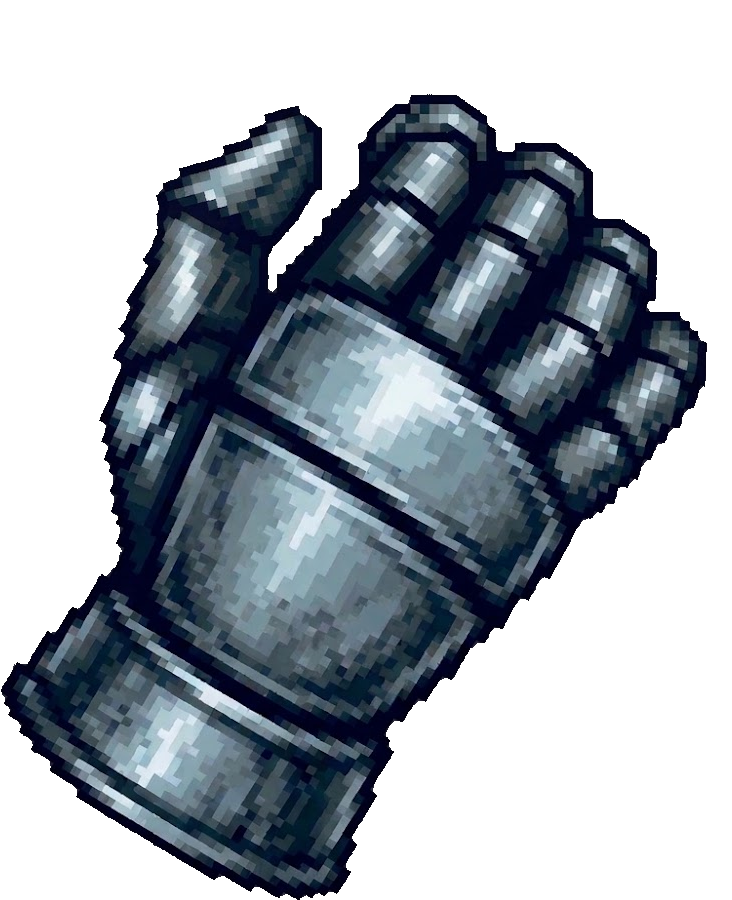
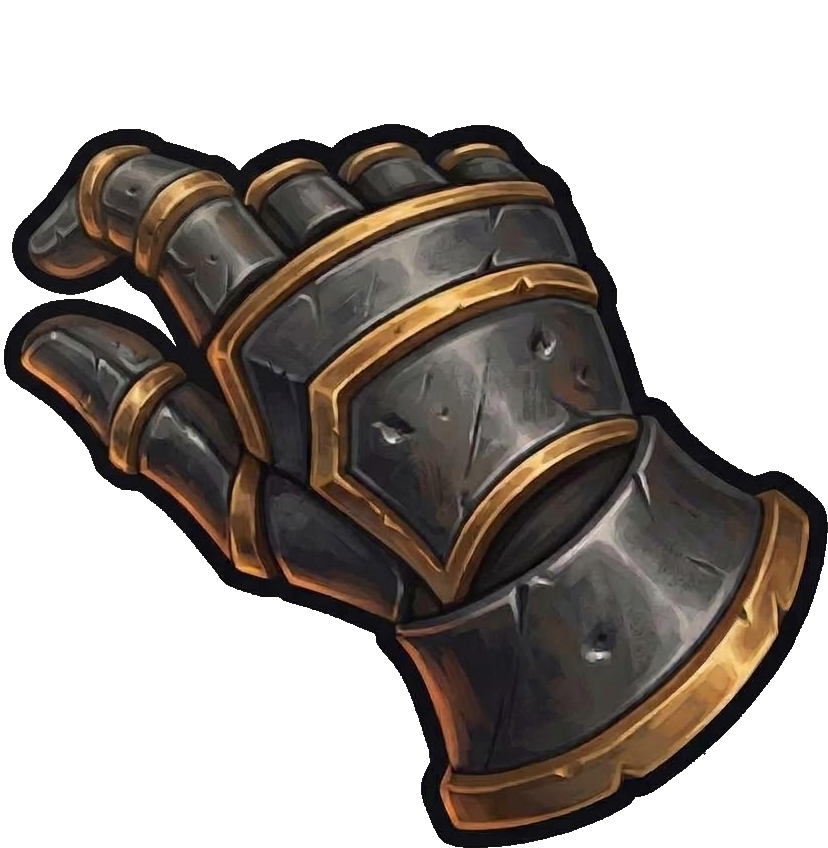
Replace the selection gauntlet with Tom's dark-iron, brass-trimmed gauntlet that points up-left: keyed from his three new JPEGs on a flat grey background (outline and brass kept, background removed cleanly), the keyed art is 828x848 so the hand canvas holds it at 242x248 texels, the three hotspots a
build-art.ts asked for stockStorage(), which Wisp's install lookup retired, so it now asks reforgedStorage(); the selection-assets family is rebuilt, stored and re-pinned. Tom made the art with Gemini for this game and approved it for public shipping (2026-11-01).

Test-kind: In Team Battle a hand is lettered in the colour of its card's team, and in the slot colour when teams are off [k1 scenario] 1 kills hand-colour-ignores-team
Test-kind: A carried chip hangs left of the pinch point with its right rim between the thumb and index tips, level with it, and narrower than the gauntlet [k2 property] 1 kills chip-hangs-on-pinch-point

diff --git a/ts/src/game/ui/selectionHandFrames.ts b/ts/src/game/ui/selectionHandFrames.ts
@@ -6,12 +6,14 @@ import { SELECT_LEVELS } from "./selectLevels";
 import { art } from "./selectionFrames";
 import { consoleUi, gameUi, placeTopLeft } from "./frames";
 import type { DrawnHand } from "./selectionHands";
-import { destroyFrame, Frame, setFrameLevel, setFrameVisible } from "wisp/game/frames";
+import { destroyFrame, Frame, frameColor, setFrameColor, setFrameLevel, setFrameVisible } from "wisp/game/frames";
+import { imod, idiv } from "wisp/src/sim/intMath";
 import { formatInt } from "wisp/game/text";
 
 interface HandLayer {
   readonly states: Readonly<Record<HandState, Frame>>;
   readonly badge: Frame;
+  badgeColour: number | undefined;
 }
 
 // Engine: Warcraft squeezes a game-UI child whose frame crosses the edge of the 4:3 area, but draws a ConsoleUIBackdrop child under every game-UI child; so the hand is drawn in the game UI, over the roster, until it crosses an edge, and then in the console layer, at full size, running off the edge like an OS cursor.
@@ -20,9 +22,9 @@ export interface HandFrames {
   readonly edge: HandLayer;
 }
 
-// The player label is the chip's own "P1" lettering, drawn without the disc, at the same texel scale as the chip's text: its 128x96 canvas is half the chip's width and 3/8 of its height, centred on this texel of the hand's 256 canvas (Melee's spot, a little left of the glove's middle and past halfway down).
-const LABEL_CENTRE_X = 95;
-const LABEL_CENTRE_Y = 148;
+// The player label is the chip's own "P1" lettering, drawn without the disc, at the same texel scale as the chip's text: its 128x96 canvas is half the chip's width and 3/8 of its height, centred on this texel of the hand's 256 canvas (the middle of the back-of-hand plate, which every state draws in the same place).
+const LABEL_CENTRE_X = 135;
+const LABEL_CENTRE_Y = 119;
 const LABEL_CHIP_WIDTH = f32(0.5);
 const LABEL_CHIP_HEIGHT = f32(0.375);
 
@@ -52,7 +54,7 @@ function createLayer(parent: Frame, grid: RosterGrid, tag: string, suffix: strin
   const badge = art(parent, `MeleeHandBadge${tag}${suffix}_${formatInt(slot)}`, `war3mapImported\\SelectionHandLabelP${formatInt(slot + 1)}.tga`, 0.0, 0.0, width, height);
   setFrameLevel(badge, SELECT_LEVELS.handBadge);
   setFrameVisible(badge, false);
-  return { states: { point: state("point"), fan: state("fan"), pinch: state("pinch") }, badge };
+  return { states: { point: state("point"), fan: state("fan"), pinch: state("pinch") }, badge, badgeColour: undefined };
 }
 
 export function createHandFrames(grid: RosterGrid, suffix: string, slot: number): HandFrames {
@@ -63,6 +65,10 @@ function presentLayer(layer: HandLayer, hand: DrawnHand | undefined, left: numbe
   for (const state of HAND_STATES) setFrameVisible(layer.states[state], hand?.pose.state === state);
   setFrameVisible(layer.badge, hand !== undefined);
   if (hand === undefined) return;
+  if (layer.badgeColour !== hand.colour) {
+    layer.badgeColour = hand.colour;
+    setFrameColor(layer.badge, frameColor(255, imod(idiv(hand.colour, 65536), 256), imod(idiv(hand.colour, 256), 256), imod(hand.colour, 256)));
+  }
   placeTopLeft(layer.states[hand.pose.state], left, top);
   const badge = handBadgeBox(left, top, size);
   placeTopLeft(layer.badge, badge.left, badge.top);

diff --git a/ts/src/game/menu/selectionDrag.tests.ts b/ts/src/game/menu/selectionDrag.tests.ts
@@ -1,8 +1,11 @@
 import { assertEquals, assertFalse, assertTrue, test } from "wisp/src/runtime/testing";
 import { f32 } from "wisp/src/sim/f32";
 import { HAND_ART_COLUMNS, HAND_ART_ROWS, HAND_TEXELS } from "../core/handArt";
-import { bullseyeLeft, bullseyeSize, bullseyeTop, GAME_MENU_WAKE_UPDATES, gameMenuWake, carriedChipLeft, carriedChipSize, carriedChipTop, HAND_STATES, handLeft, handSize, handTop, menuCursor } from "./selectionDrag";
+import { bullseyeLeft, bullseyeSize, bullseyeTop, GAME_MENU_WAKE_UPDATES, gameMenuWake, carriedChipLeft, carriedChipSize, carriedChipTop, CARRIED_CHIP_OFFSET, HAND_STATES, handLeft, handSize, handTop, menuCursor } from "./selectionDrag";
 import { rosterGrid } from "./selectionGrid";
+
+// The chip texture's disc is 232 of its 256 texels.
+const DISC_RADIUS = f32(0.453);
 
 test("The cursor is the pointing hand over a control, the open hand over a tile and resting in a menu panel, the pointing hand resting on the select screen, the pinch with a chip, and the stock cursor shows only where no hand is drawn [k2 property]", () => {
   for (const allowed of [false, true]) {
@@ -97,7 +100,7 @@ test("The gauntlet is drawn at 0.67 to 0.77 of a roster tile's height at every g
     const width = size * HAND_ART_COLUMNS / HAND_TEXELS;
     assertTrue(height >= f32(0.67) * grid.cellHeight && height <= f32(0.77) * grid.cellHeight);
     assertTrue(Math.abs(width / height - HAND_ART_COLUMNS / HAND_ART_ROWS) < f32(1e-6));
-    assertTrue(Math.abs(HAND_ART_COLUMNS / HAND_ART_ROWS - 732 / 900) < f32(0.002));
+    assertTrue(Math.abs(HAND_ART_COLUMNS / HAND_ART_ROWS - 828 / 848) < f32(0.002));
   }
 });
 
@@ -113,16 +116,17 @@ test("Every hand state keeps its hotspot inside the hand frame and moves the fra
   }
 });
 
-test("A carried chip is centred over the pinch point with its lower rim below it, and narrower than the gauntlet [k2 property]", () => {
+test("A carried chip hangs left of the pinch point with its right rim between the thumb and index tips, level with it, and narrower than the gauntlet [k2 property]", () => {
   for (let count = 1; count <= 60; count++) {
     const grid = rosterGrid(count);
     const size = handSize(grid);
     const chip = carriedChipSize(grid);
     const x = f32(0.4);
     const y = f32(0.3);
-    assertTrue(Math.abs(carriedChipLeft(x, chip) + chip / 2 - x) < f32(0.00001));
+    assertTrue(Math.abs(carriedChipLeft(x, chip) + chip / 2 - (x + chip * CARRIED_CHIP_OFFSET.x)) < f32(0.00001));
+    assertTrue(carriedChipLeft(x, chip) + chip * (f32(0.5) + DISC_RADIUS) > x);
+    assertTrue(carriedChipLeft(x, chip) + chip * (f32(0.5) - DISC_RADIUS) < x);
     assertTrue(Math.abs(carriedChipTop(y, chip) - chip / 2 - y) < chip * f32(0.15));
-    assertTrue(carriedChipTop(y, chip) - chip < y);
     assertTrue(chip < size * HAND_ART_COLUMNS / HAND_TEXELS);
   }
 });

diff --git a/ts/src/game/menu/selectionDrag.ts b/ts/src/game/menu/selectionDrag.ts
@@ -164,11 +164,11 @@ export const HAND_TILE_HEIGHT = f32(0.72);
 // SelectionHand textures are drawn square, sized so the gauntlet rows span HAND_TILE_HEIGHT of a tile.
 export const handSize = (grid: RosterGrid): number => f32(f32(grid.cellHeight) * HAND_TILE_HEIGHT * HAND_TEXELS / HAND_ART_ROWS);
 
-// The texel that sits exactly on the mouse: the index fingertip, the middle fingertip, and the middle of the gap between thumb and index tips.
+// The texel that sits exactly on the mouse: the index fingertip of the up-left pointing hand, the fan's leading (longest) fingertip, and the middle of the gap between the pinch's thumb and index tips.
 const HAND_HOTSPOT: Readonly<Record<HandState, { readonly x: number; readonly y: number }>> = {
-  point: { x: 155.5, y: 6 },
-  fan: { x: 171.75, y: 26 },
-  pinch: { x: 103, y: 38 },
+  point: { x: 10.5, y: 18.5 },
+  fan: { x: 57, y: 7 },
+  pinch: { x: 16, y: 88 },
 };
 
 export const handLeft = (x: number, state: HandState, size: number): number => x - f32(HAND_HOTSPOT[state].x / HAND_TEXELS) * size;
@@ -212,12 +212,12 @@ export const CARRIED_CHIP_HAND_SHARE = f32(0.71);
 
 export const carriedChipSize = (grid: RosterGrid): number => f32(handSize(grid) * CARRIED_CHIP_HAND_SHARE);
 
-// A carried chip sits just below the pinch point, drawn under the hand so the thumb and fingers cover its upper part.
-export const CARRIED_CHIP_LIFT = f32(-0.12);
+// The pinch opens to the left, so a carried chip hangs to the left of the pinch point with its right rim between thumb and index tips, drawn under the hand so the tips cover that rim; the offset is in chip sizes.
+export const CARRIED_CHIP_OFFSET = { x: f32(-0.4), y: f32(0.0) };
 
-export const carriedChipLeft = (x: number, size: number): number => x - size * f32(0.5);
+export const carriedChipLeft = (x: number, size: number): number => x - size * f32(f32(0.5) - CARRIED_CHIP_OFFSET.x);
 
-export const carriedChipTop = (y: number, size: number): number => y + size * f32(f32(0.5) + CARRIED_CHIP_LIFT);
+export const carriedChipTop = (y: number, size: number): number => y + size * f32(f32(0.5) + CARRIED_CHIP_OFFSET.y);
 
 // A chip not yet on a fighter parks centred on this point of its player card.
 export const parkedChipCentre = (slot: number): { readonly x: number; readonly y: number } => ({ x: cardRight(slot, f32(0.126)), y: cardDown(f32(0.105)) });

diff --git a/tools/selection/gameCursorArt.ts b/tools/selection/gameCursorArt.ts
@@ -10,7 +10,7 @@ export const CURSOR_TEXTURE = 'GameCursor';
 
 // Warcraft's cursor model samples the pointer cells so the click point sits 8 px right of and 1 px below a cell's corner.
 const POINTER_HOTSPOT = { x: 8, y: 1 };
-const POINTER_ART = { width: 24, height: 31, tipFromLeft: 5 };
+const POINTER_ART = { width: 24, height: 24, tipFromLeft: 1, tipFromTop: 1 };
 
 const POINTER_CELLS = [
   ...Array.from({ length: CURSOR_COLUMNS }, (_, column) => [column, 0] as const),
@@ -33,8 +33,8 @@ export const gameCursorArt = (source: string, output: string, run: Run) => Effec
   const target = join(output, 'GameCursorTarget.png');
   const invalid = join(output, 'GameCursorInvalid.png');
   const arrow = join(output, 'GameCursorArrow.png');
-  const offset = `${POINTER_HOTSPOT.x - POINTER_ART.tipFromLeft}x${POINTER_HOTSPOT.y}`;
-  yield* run(['magick', join(source, 'wc3-hand-point.png'), '-filter', 'point', '-resize', `${POINTER_ART.width}x${POINTER_ART.height}!`, '-flop', '-background', 'none', '-gravity', 'northwest', '-splice', offset, '-extent', cell, pointer]);
+  const offset = `${POINTER_HOTSPOT.x - POINTER_ART.tipFromLeft}x${POINTER_HOTSPOT.y - POINTER_ART.tipFromTop}`;
+  yield* run(['magick', join(source, 'wc3-hand-point.png'), '-trim', '+repage', '-filter', 'Lanczos', '-resize', `${POINTER_ART.width}x${POINTER_ART.height}!`, '-background', 'none', '-gravity', 'northwest', '-splice', offset, '-extent', cell, pointer]);
   yield* run(['magick', '-background', 'none', join(source, 'SelectionBullseye.svg'), '-resize', '30x30', '-gravity', 'center', '-extent', cell, reticle]);
   yield* run(['magick', reticle, '-fill', '#19e6ff', '-colorize', '70', target]);
   yield* run(['magick', reticle, '-fill', '#ff2a2a', '-colorize', '75', '-stroke', '#ff2a2a', '-strokewidth', '3', '-draw', 'line 8,24 24,8', invalid]);

diff --git a/ts/src/game/ui/selectionUi.ts b/ts/src/game/ui/selectionUi.ts
@@ -1,5 +1,4 @@
 import { SELECT_LEVELS } from "./selectLevels";
-import { slotColor } from "./slotColors";
 import { nextCpuCharacter, nextMatchCharacter, shownFighter } from "../lobby/lobbyState";
 import { RULE_BUTTONS, rulePanel } from "./ruleButtons";
 import { RULE_HELP_HEIGHT, RULE_HELP_WIDTH, hoveredRule, ruleHelp } from "./ruleHelp";
@@ -47,7 +46,7 @@ import {
 } from "../menu/selectionDrag";
 import { cellRect, rosterGrid } from "../menu/selectionGrid";
 import { type HandFrames, createHandFrames, destroyHandFrames, presentHand } from "./selectionHandFrames";
-import { type HandPose, HIDDEN_HAND, SelectionHands } from "./selectionHands";
+import { type HandPose, HIDDEN_HAND, SelectionHands, handColour } from "./selectionHands";
 import { MENU_FONT, MENU_STYLE, PANEL_TEXTURE, type TextBox } from "./hudLayout";
 import { MOVES_BODY_BOX, MOVES_BUTTON_HEIGHT, MOVES_BUTTON_TOP, MOVES_HEADER_TOP, MOVES_TITLE_BOX, selectionTitleBox } from "./selectionLayout";
 import { PLAYABLE_CHARACTERS, nextSelectableCharacter, DEFAULT_FIGHTER } from "../roster/kits";
@@ -586,7 +585,7 @@ export class SelectionPanel {
     for (const slot of PARTICIPANT_SLOTS) {
       const frames = this.hands[slot];
       const remote = drawn.find(candidate => candidate.slot === slot);
-      const local = slot === this.participantId && localHand.state !== undefined ? { slot, pose: { ...localHand, state: localHand.state }, colour: slotColor(slot).rgb } : undefined;
+      const local = slot === this.participantId && localHand.state !== undefined ? { slot, pose: { ...localHand, state: localHand.state }, colour: handColour(game, slot) } : undefined;
       presentHand(frames, slot === this.participantId ? local : choosing ? remote : undefined, this.roster.grid);
     }
   }

diff --git a/ts/src/game/ui/selectionHands.tests.ts b/ts/src/game/ui/selectionHands.tests.ts
@@ -6,6 +6,7 @@ import { createMatchState, setHumanMask } from "../lobby/lobbyState";
 import type { HandState } from "../menu/selectionDrag";
 import { HAND_SEND_INTERVAL, HAND_UPDATES_PER_SECOND, type HandPose, HIDDEN_HAND, SelectionHands } from "./selectionHands";
 import { slotColor } from "./slotColors";
+import type { Team } from "../sim/teams";
 
 const POSITION_STEP = f32(0.0011);
 const STATES: readonly HandState[] = ["point", "fan", "pinch"];
@@ -87,4 +88,15 @@ test("A remote hand glides from where it was drawn to each new synced position w
   assertEquals(hand(later)?.state, "pinch");
   const chips = remote?.carriedChips(game, later);
   for (const slot of PARTICIPANT_SLOTS) assertEquals(chips?.[slot] !== undefined, slot === 1);
+});
+
+test("In Team Battle a hand is lettered in the colour of its card's team, and in the slot colour when teams are off [k1 scenario]", () => {
+  const { game, clients, step } = lobby(4);
+  step(100.0, [pose("point", f32(0.2), f32(0.2)), pose("fan", f32(0.3), f32(0.3)), pose("point", f32(0.4), f32(0.4)), pose("fan", f32(0.5), f32(0.5))]);
+  const settled = 100.0 + 2 * HAND_SEND_INTERVAL;
+  const colours = () => (clients[0]?.drawn(game, pose("point", f32(0.2), f32(0.2)), settled) ?? []).map(hand => hand.colour);
+  assertEquals(colours().join(","), BADGE_COLOURS.join(","));
+  game.teamBattle = true;
+  [1, 1, 3, 0].forEach((team, slot) => { game.teamChoices[slot] = team as Team; });
+  assertEquals(colours().join(","), [0x0042ff, 0x0042ff, 0x540081, 0xff0303].join(","));
 });

diff --git a/ts/src/game/ui/selectionHands.ts b/ts/src/game/ui/selectionHands.ts
@@ -4,6 +4,7 @@ import { ALPHABET } from "../input/wire";
 import { type MatchState, humanPresent } from "../lobby/lobbyState";
 import { HAND_STATES, type HandState } from "../menu/selectionDrag";
 import { PARTICIPANT_SLOTS, type Slots } from "../input/participants";
+import { cardPalette } from "./selectionCards";
 import { slotColor } from "./slotColors";
 
 export interface HandPose {
@@ -18,6 +19,9 @@ export interface DrawnHand {
   readonly pose: HandPose & { readonly state: HandState };
   readonly colour: number;
 }
+
+// A hand is lettered with its slot (P1 to P4) in the colour its player card shows: the team colour in Team Battle, the slot colour otherwise.
+export const handColour = (game: Readonly<MatchState> | undefined, slot: number): number => slotColor(game === undefined ? slot : cardPalette(game, slot)).rgb;
 
 export const HIDDEN_HAND: HandPose = { state: undefined, chip: undefined, x: 0.0, y: 0.0 };
 
@@ -100,7 +104,7 @@ export class SelectionHands {
       const glide = this.glides[slot];
       const pose = slot === this.localSlot ? local : glide === undefined ? HIDDEN_HAND : glideAt(glide, now);
       if (pose.state === undefined || !humanPresent(game, slot)) continue;
-      hands.push({ slot, pose: { ...pose, state: pose.state }, colour: slotColor(slot).rgb });
+      hands.push({ slot, pose: { ...pose, state: pose.state }, colour: handColour(game, slot) });
     }
     return hands;
   }

diff --git a/tools/selection/build-art.ts b/tools/selection/build-art.ts
@@ -66,7 +66,7 @@ BunRuntime.runMain(Effect.gen(function*() {
   const slots = PLAYER_COLORS.slice(0, PARTICIPANT_CAPACITY);
   for (const [slot, color] of slots.entries()) {
     yield* render(`SelectionChipP${slot + 1}`, 'SelectionChip.svg', { CHIP_COLOR: hex(mix(color.rgb, 0x000000, 0.2)), CHIP_LABEL: `P${slot + 1}` }, true);
-    yield* render(`SelectionHandLabelP${slot + 1}`, 'SelectionHandLabel.svg', { LABEL_COLOR: hex(color.rgb), LABEL_TEXT: `P${slot + 1}` }, true);
+    yield* render(`SelectionHandLabelP${slot + 1}`, 'SelectionHandLabel.svg', { LABEL_COLOR: '#ffffff', LABEL_TEXT: `P${slot + 1}` }, true);
     yield* render(`SelectionChipCPUP${slot + 1}`, 'SelectionChip.svg', { CHIP_COLOR: '#626977', CHIP_LABEL: `P${slot + 1}` }, true);
     yield* render(`SelectionCard${color.name}`, 'SelectionCard.svg', { CARD_COLOR: hex(mix(color.rgb, 0x000000, 0.4)), CARD_EDGE: hex(mix(color.rgb, 0xffffff, 0.35)), CARD_METAL: '#bbc6cf' }, false);
     yield* render(`MarkerArrow${slot}`, 'MarkerArrow.svg', { ARROW_COLOR: hex(color.rgb) }, false);

diff --git a/ts/src/game/core/handArt.ts b/ts/src/game/core/handArt.ts
@@ -1,5 +1,5 @@
-// Each SelectionHand texture is one 256x256 canvas (tools/selection/build-art.ts): the gauntlet is 202x248 texels at (4, 4).
+// Each SelectionHand texture is one 256x256 canvas (tools/selection/build-art.ts): the gauntlet is 242x248 texels at (4, 4).
 export const HAND_TEXELS = 256;
-export const HAND_ART_COLUMNS = 202;
+export const HAND_ART_COLUMNS = 242;
 export const HAND_ART_ROWS = 248;
 export const HAND_MARGIN = 4;

diff --git a/docs/design/fighter-portraits.md b/docs/design/fighter-portraits.md
@@ -261,7 +261,7 @@ playing with them, 2026-10-30). The authored chip's 237-pixel rim spans a
 55–70% reference band by that request. The pointer target follows that frame size; the P1/P2 labels keep their art.
 
 The fighter select and stage menus replace the stock Warcraft cursor (the Human
-gauntlet) with Tom's steel gauntlet in three states: the default pointing hand
+gauntlet) with Tom's dark-iron, brass-trimmed gauntlet (remade 2026-11-01; it points up-left, as Warcraft's own cursor does) in three states: the default pointing hand
 (`SelectionHandPoint`) wherever the hand is neither over a fighter tile nor
 holding a chip, the open fanned hand (`SelectionHandFan`) over a fighter tile
 with no chip, and the pinch (`SelectionHandPinch`) while a chip is carried,
@@ -277,21 +277,22 @@ Matches, pause, title, results, settings, the tutorial and the CPU and moves
 panels keep the stock cursor or none.
 
 Each state is the same 256x256 texture with the cuff and palm in the same place,
-so a state change never jumps; the gauntlet is 202x248 texels at (4, 4), the 732x900
-keyed PNGs point-scaled uniformly (202/248 against the art's 0.813). It is drawn
+so a state change never jumps; the gauntlet is 242x248 texels at (4, 4), the 828x848
+keyed PNGs point-scaled uniformly (242/248 against the art's 0.976). It is drawn
 square at Melee's hand-to-tile proportion (asked for 2026-10-30, from a Melee
 character-select screenshot) and then 20% smaller after Tom played with it
 (2026-10-30): the gauntlet is 0.72 of a roster tile's height
 (`HAND_TILE_HEIGHT` in `selectionDrag.ts`, measured from the roster grid's cell
 height so it holds at every grid size and UI scale), about 0.7 of its width, 90 pixels
-tall against a 125-pixel tile at 1080p (113 before the reduction); the old pinch hand was 38.5 pixels. The 256x256
+tall against a 125-pixel tile at 1080p (113 before the reduction); the old pinch hand was 38.5 pixels. The 2026-11-01 gauntlet is squarer than the steel one (0.976 against 0.813 wide to tall), so at the same height it is 20% wider and its silhouette fills the same share of its box (0.49 to 0.55 of the keyed canvas against 0.51); the height stayed. The 256x256
 canvas has texels four times finer than the old 64x64 one, so the engine's bilinear
 sampling does not smear them. The hotspot sits exactly on the mouse position:
-texel (155.5, 6) for the pointing index fingertip, (171.75, 26) for the fanned
-hand's middle fingertip and (103, 38) for the gap between thumb and index
-tips. While a chip is carried its centre sits just below that pinch point (lowered 0.12 of the chip; Tom asked for it lower on 2026-10-30) and the chip
+texel (10.5, 18.5) for the pointing index fingertip, (57, 7) for the fanned
+hand's leading (longest) fingertip and (16, 88) for the gap between thumb and index
+tips, which open to the left. While a chip is carried its centre hangs 0.4 of the chip to the left of that pinch point,
+level with it (`CARRIED_CHIP_OFFSET`), and the chip
 frame is drawn beneath the hand (`SELECT_LEVELS.carriedChip`, `carriedChipLeft`,
-`carriedChipTop`), so the thumb and fingers cover its upper part the way Melee's
+`carriedChipTop`), so the thumb and index tips cover its right rim the way Melee's
 hand holds its token (Tom compared the two, 2026-10-30). The carried chip is
 0.71 of the hand's frame (`CARRIED_CHIP_HAND_SHARE`): in Melee's reference the
 token's disc is 51 px across a glove 62 px wide, 0.82, and the chip texture's disc
@@ -305,10 +306,12 @@ together once per 60 Hz tick from one mouse sample.
 
 Character select draws every connected human's hand, not only the local one
 (asked for 2026-10-30, after Melee's player hands): each hand carries a P1 to P4
-label in the slot's Warcraft colour (red, blue, teal, purple): the chip's own bold
+label in the colour its player card shows (red, blue, teal, purple: the slot's, or in
+Team Battle the colour of the chosen team, `handColour`): the chip's own bold
 outlined lettering at the chip's own size, inverted (the text in the player
-colour, no disc and no box), rendered by `tools/selection/art/SelectionHandLabel.svg`
-and centred on texel (95, 148) of the hand canvas, and a pinching hand's chip is
+colour, no disc and no box), rendered white by `tools/selection/art/SelectionHandLabel.svg`,
+tinted to that colour by the label frame (`setFrameColor`)
+and centred on texel (135, 119) of the hand canvas, the middle of the gauntlet's back-of-hand plate, and a pinching hand's chip is
 drawn at the hand. Each client knows only
 its own mouse (a pad's cursor is a mouse position too), so it sends its hand's
 state, carried chip and position as a six-character `select-hand` sync

diff --git a/docs/build-inputs.md b/docs/build-inputs.md
@@ -162,12 +162,13 @@ that regenerates the family.
 
 The public authored `tools/selection/art/wc3-hand-point.png`, `wc3-hand-fan.png`
 and `wc3-hand-pinch.png` are Tom's authored, AI-assisted gauntlet cursor art,
-approved for public shipping (2026-10-30). They come from his three JPEGs on a
-flat dark background; `bun tools/selection/key-hand-states.ts <folder of the
+approved for public shipping (2026-10-30; remade 2026-11-01 as a dark-iron,
+brass-trimmed gauntlet that points up-left, as Warcraft's own cursor does). They
+come from his three 1024x1024 JPEGs on a flat dark grey background; `bun tools/selection/key-hand-states.ts <folder of the
 JPEGs>` keys the background to transparency (outline kept), aligns the cuffs and
 writes the three PNGs on one canvas. The normal `bun tools/selection/build-art.ts`
 point-scales them into `SelectionHandPoint.tga`, `SelectionHandFan.tga` and
-`SelectionHandPinch.tga`, each a 256x256 canvas, and renders the four 128x96 `SelectionHandLabelP1-4.tga` player labels from `SelectionHandLabel.svg`; stage select's `SelectionBullseye.tga` is rendered from `tools/selection/art/SelectionBullseye.svg`. Store the generated
+`SelectionHandPinch.tga`, each a 256x256 canvas, and renders the four 128x96 `SelectionHandLabelP1-4.tga` player labels from `SelectionHandLabel.svg` in white, which the label frame tints to its hand's card colour; stage select's `SelectionBullseye.tga` is rendered from `tools/selection/art/SelectionBullseye.svg`. Store the generated
 `selection-assets` family and commit its hash with the source change.
 
 ### Warcraft's own cursor
@@ -190,9 +191,9 @@ of and 1 px below the cell's corner, and the 30x30 px the model samples from
 each cell cannot be moved by a texture; the target cells (row 2, and row 3
 columns 1 and 2) centre on the click point; row 3 columns 5 to 7 are the edge
 scroll arrows. `tools/selection/gameCursorArt.ts` fills them: the point gauntlet,
-mirrored so its index fingertip lands on the click point with the hand running
-right and down from it (the art points up and right, and the cell holds only
-7 px left of the click point), the bullseye ring for target, cyan for a
+trimmed and fitted to 24x24 px so its index fingertip lands on the click point
+with the hand running right and down from it (the art points up-left, as
+Warcraft's own cursor does, so it is not mirrored), the bullseye ring for target, cyan for a
 selectable target, red with a slash for an invalid one, and a pale arrow for scrolling.
 It writes `GameCursor.tga` into the `selection-assets` family, which is not
 imported as a TGA. A texture override changes only the art: it cannot move the
